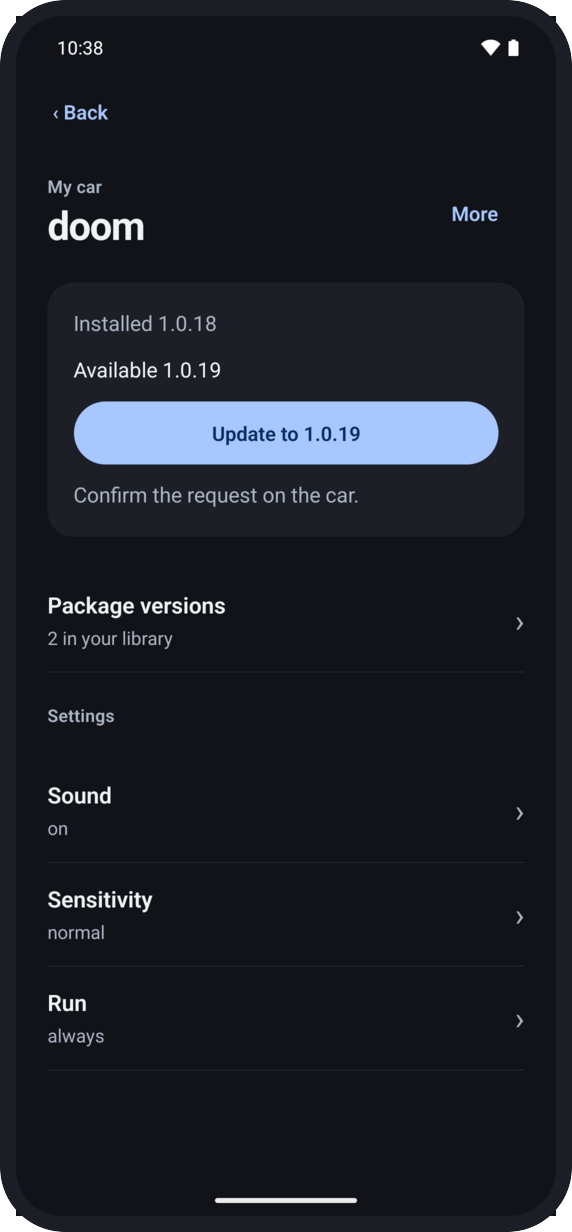
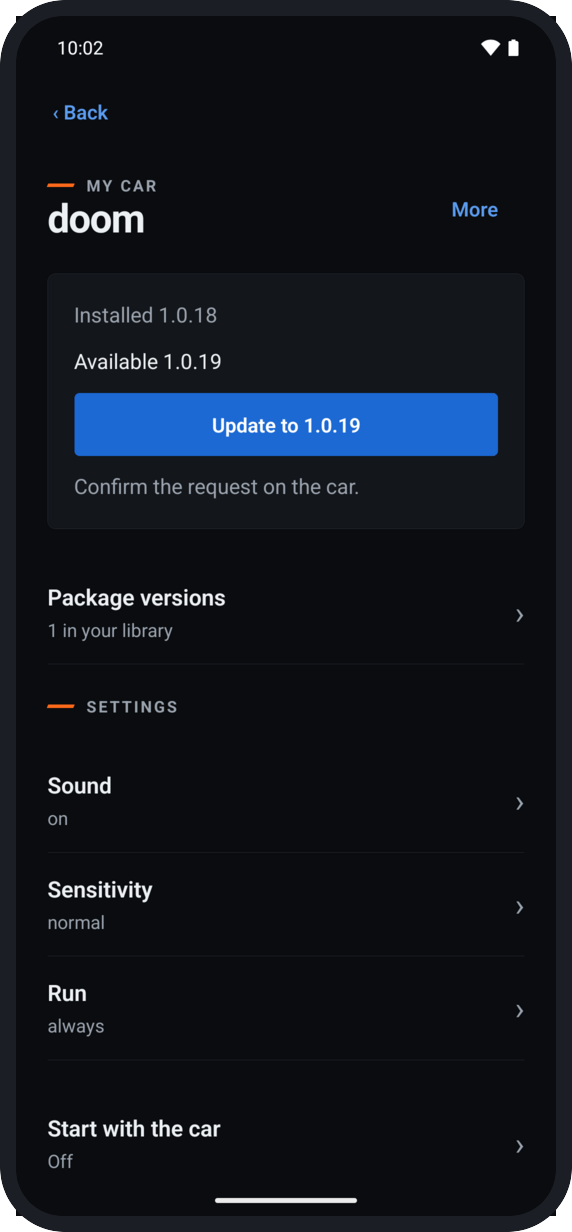
Docs: the README's captures in the new look; the capture script runs again
capture_screens.py follows the app as it is now: an action's result is
read in its dialog and closed, a page is left with Back, and the newer
doom package is added last, since it replaces the older one in the library.

diff --git a/scripts/capture_screens.py b/scripts/capture_screens.py
@@ -92,6 +92,14 @@ class Device:
             time.sleep(0.4)
         raise SystemExit(f'"{label}" did not appear')
 
+    def wait_prefix(self, prefix, timeout=20.0):
+        deadline = time.monotonic() + timeout
+        while time.monotonic() < deadline:
+            if any((n.get('text') or '').startswith(prefix) for n in self.nodes()):
+                return
+            time.sleep(0.4)
+        raise SystemExit(f'nothing starting with "{prefix}" appeared')
+
     def tap(self, label, timeout=20.0, after=0.6):
         self.tap_node(self.wait(label, timeout), after)
 
@@ -179,18 +187,15 @@ def make_packages(car, folder):
     return paths
 
 
-PHASES = ('In progress', 'Done', 'Not done', 'Failed')
-
-
 def result(dev, title, timeout=60.0):
-    """Waits until the activity `title` (the newest one) finishes; returns its phase."""
+    """Waits until the action `title` finishes in its dialog; returns what it says, and closes it."""
     deadline = time.monotonic() + timeout
     while time.monotonic() < deadline:
         texts = [n.get('text') for n in dev.nodes() if n.get('text')]
-        if title in texts:
-            phase = next((t for t in texts[texts.index(title) + 1:] if t in PHASES), None)
-            if phase and phase != 'In progress':
-                return phase
+        if title in texts and 'Close' in texts:
+            detail = texts[texts.index(title) + 1]
+            dev.tap('Close')
+            return detail
         time.sleep(0.4)
     raise SystemExit(f'"{title}" did not finish')
 
@@ -247,27 +252,25 @@ def rename(dev, name):
     dev.tap('‹ Back')
 
 
-def import_packages(dev, files):
+def import_packages(dev, files, first=True):
+    """Adds `files` to the library; a newer version of an application replaces the one there."""
     dev.tap('Library')
     for i, file in enumerate(files):
-        dev.tap('Add a file' if i == 0 else 'Add file', after=1.5)
+        dev.tap('Add a file' if first and i == 0 else 'Add file', after=1.5)
         dev.tap(file.name, timeout=30, after=1.0)
-        dev.wait('Package added.')
+        dev.wait_prefix('Package added.')
 
 
-def install(dev, car, app, version, row=None):
-    """Installs `app` from its page: the newest package, or the versions list's `row`."""
+def install(dev, car, app, version):
+    """Installs `app` from its page, the package in the library, and returns to the tabs."""
     dev.tap('Car')
     dev.tap(app)
-    if row:
-        dev.tap('Package versions')
-        dev.tap(row)
-    else:
-        dev.tap(f'Install {version}')
-    dev.wait('Confirm on the car.', timeout=60)
+    dev.tap(f'Install {version}')
+    dev.wait_prefix('Confirm on the car', timeout=60)
     approve(car)
-    if result(dev, f'Install {app} {version}') != 'Done':
+    if result(dev, f'Install {app} {version}') != 'Installed.':
         raise SystemExit(f'installing {app} {version} failed on the desk car')
+    dev.tap('‹ Back')
 
 
 def frame_parts(tmp):
@@ -316,13 +319,14 @@ def record_install(dev, car, tmp, body, dst):
                                            '--size', '1080x2400', '--bit-rate', '8000000', remote])
     time.sleep(1.8)
     dev.tap('Install 0.4.2', after=0.2)
-    dev.wait('Confirm on the car.', timeout=60)
+    dev.wait_prefix('Confirm on the car', timeout=60)
     time.sleep(2.5)                                  # the driver looks at the car
     approve(car)
-    if result(dev, 'Install media-player 0.4.2') != 'Done':
+    time.sleep(2.5)                                  # the result, read
+    if result(dev, 'Install media-player 0.4.2') != 'Installed.':
         raise SystemExit('installing media-player failed on the desk car')
-    time.sleep(1.8)
-    dev.tap('Car', after=2.5)
+    time.sleep(1.2)
+    dev.tap('‹ Back', after=2.5)
     dev.shell('pkill', '-INT', 'screenrecord')
     recorder.wait(timeout=20)
     time.sleep(1)
@@ -386,12 +390,16 @@ def main():
                 open_app(dev, args.metro_port)
                 pair(dev, car, shots)
                 rename(dev, 'My car')
-                import_packages(dev, files)
+                # doom 1.0.19 comes last: it replaces 1.0.18 in the library, as an update to install.
+                newer = [file for file in files if file.name == 'doom-1.0.19.nbt']
+                import_packages(dev, [file for file in files if file not in newer])
                 dev.screenshot(shots / 'library.png')
-                install(dev, car, 'doom', '1.0.18', row='1.0.18, Sequence 18, Install')
+                install(dev, car, 'doom', '1.0.18')
                 install(dev, car, 'test', 'v1')
                 record_install(dev, car, tmp, frame_parts(tmp), args.out / 'mobile-install.webp')
+                import_packages(dev, newer, first=False)
 
+                dev.tap('Car')
                 dev.wait('Update available')
                 dev.screenshot(shots / 'car-light.png')
                 dev.night(True)
